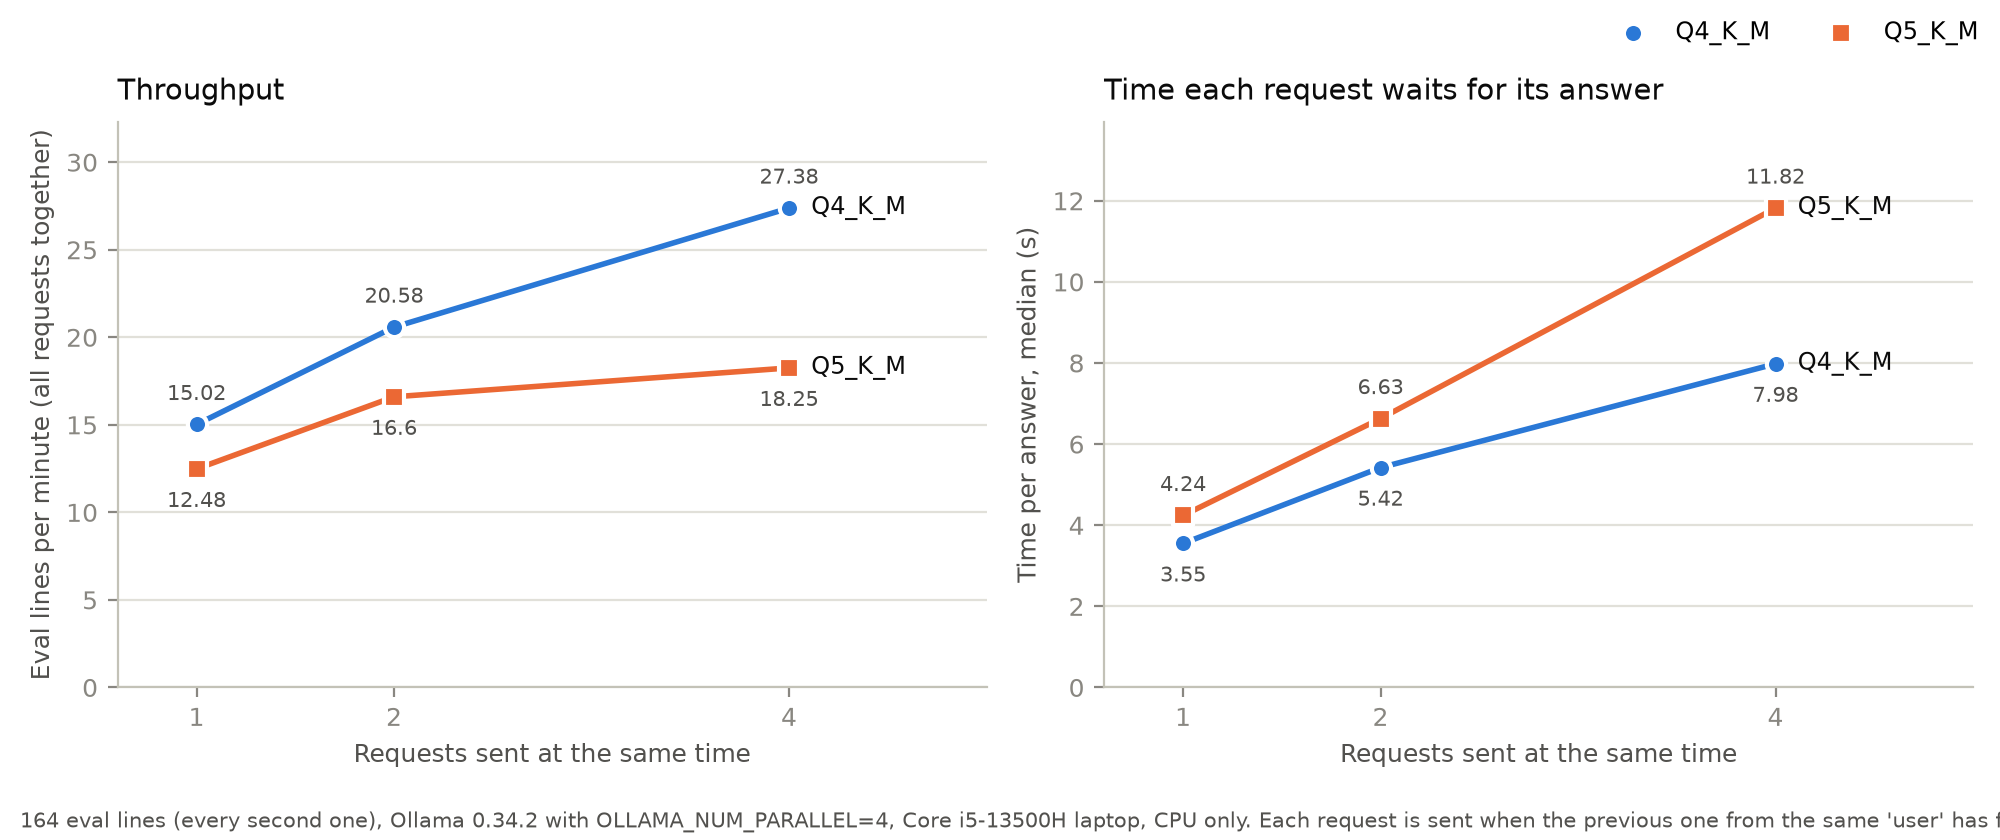
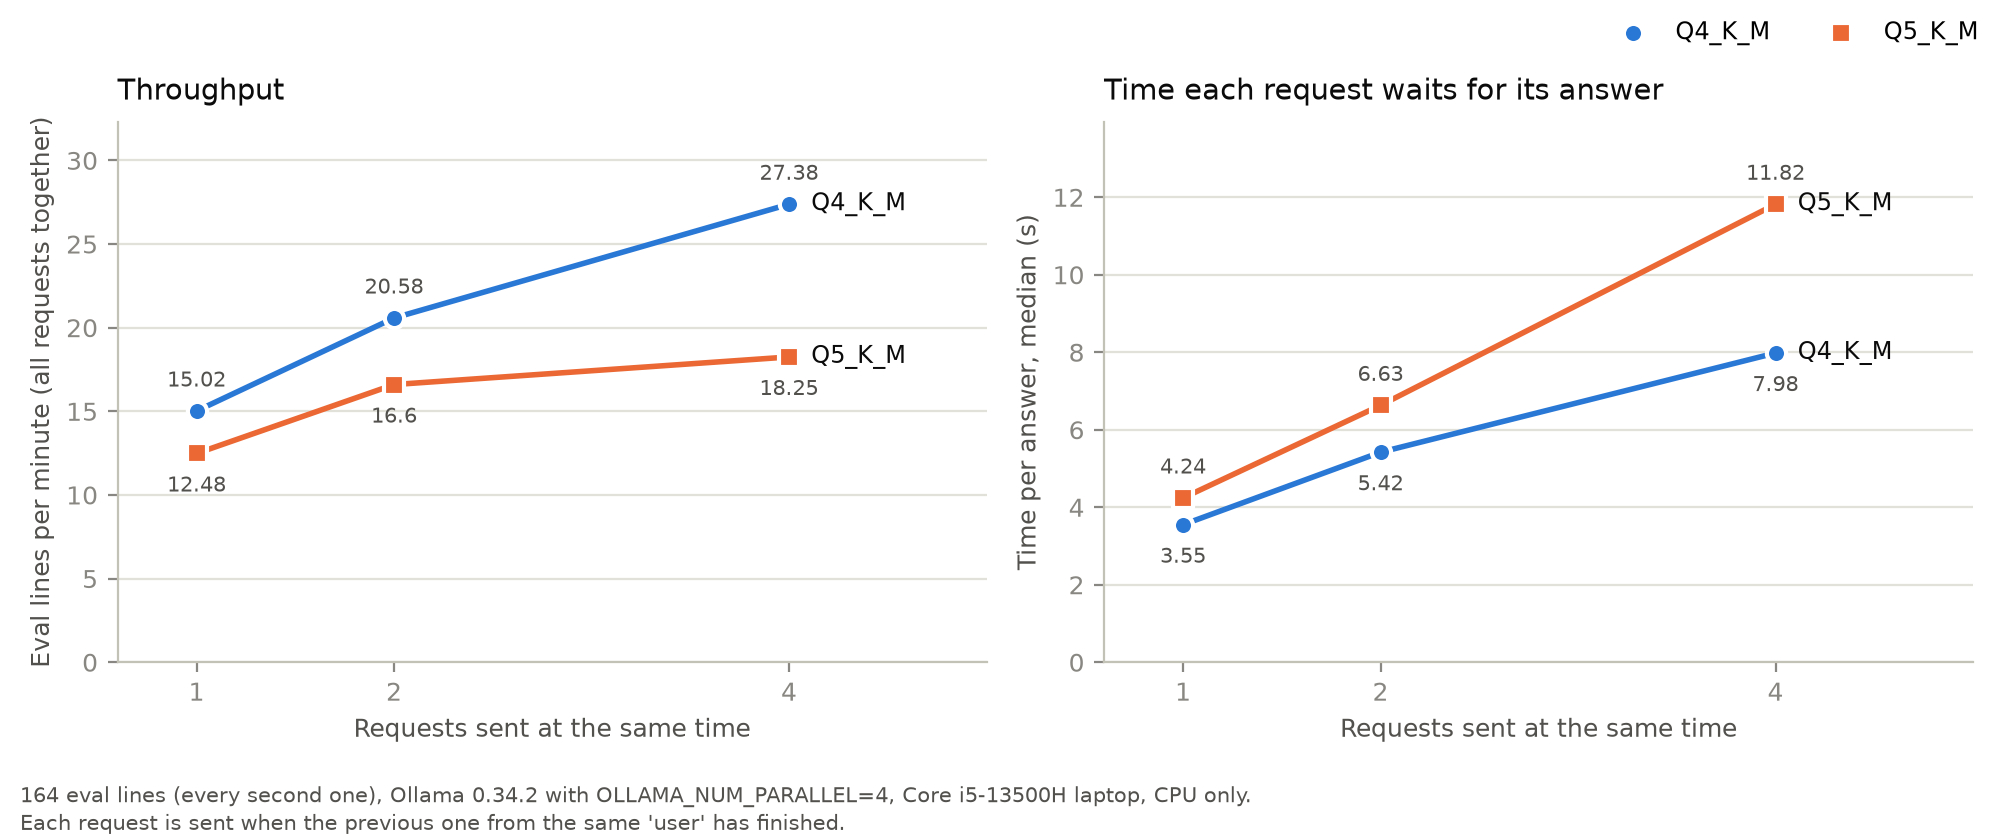
Week 7 load figure: caption on two lines (it ran off the right edge)

diff --git a/src/week7_load_table.py b/src/week7_load_table.py
@@ -158,10 +158,12 @@ def main():
             ax.spines[side].set_visible(False)
     handles, labels = axes[0].get_legend_handles_labels()
     fig.legend(handles, labels, loc="upper right", ncol=2, frameon=False, fontsize=8.5)
-    fig.text(0.01, 0.015, f"{rows[0]['lines']} eval lines (every second one), Ollama 0.34.2 with OLLAMA_NUM_PARALLEL=4, "
-             "Core i5-13500H laptop, CPU only. Each request is sent when the previous one from the same "
-             "'user' has finished.", fontsize=7.5, color=INK2)
-    fig.tight_layout(rect=(0, 0.05, 1, 0.94))
+    # caption on two lines: on one line it ran off the right edge of the picture
+    fig.text(0.01, 0.045, f"{rows[0]['lines']} eval lines (every second one), Ollama 0.34.2 with OLLAMA_NUM_PARALLEL=4, "
+             "Core i5-13500H laptop, CPU only.", fontsize=7.5, color=INK2)
+    fig.text(0.01, 0.012, "Each request is sent when the previous one from the same 'user' has finished.",
+             fontsize=7.5, color=INK2)
+    fig.tight_layout(rect=(0, 0.08, 1, 0.94))
     fig.savefig(R / "week7_load.png", dpi=200, facecolor="white")
 
     # ---- markdown
